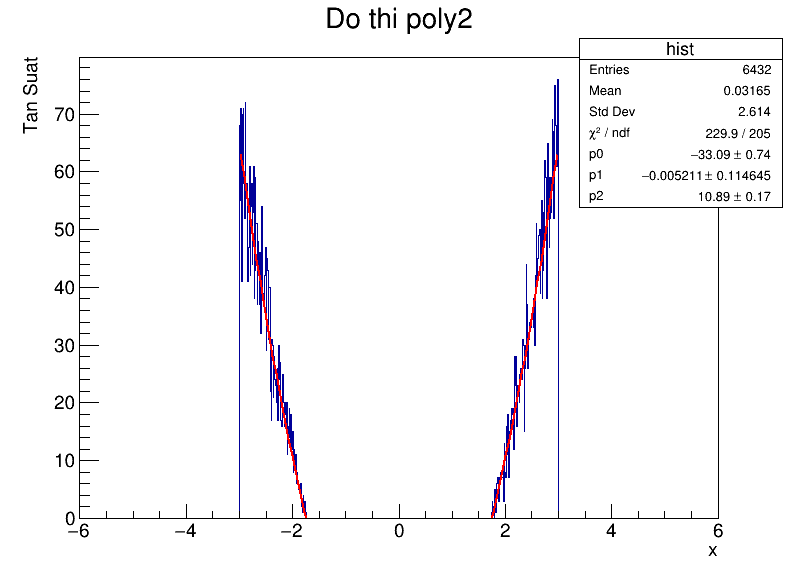
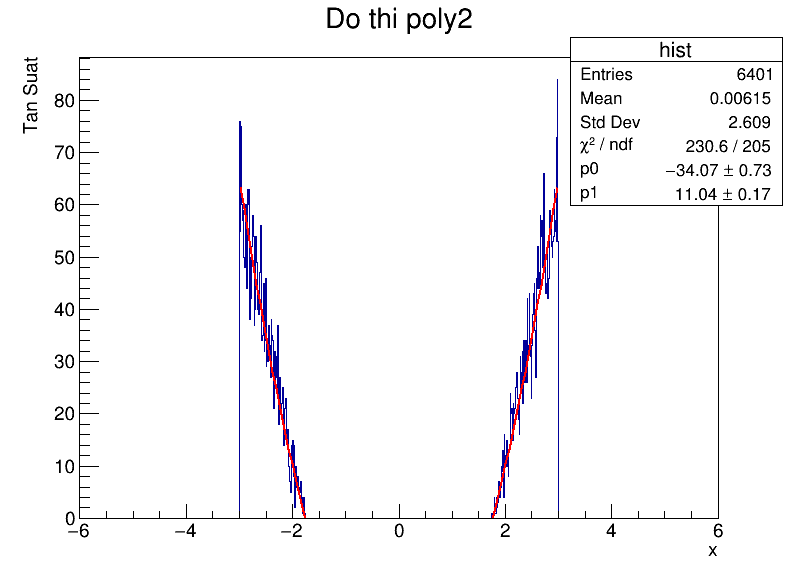
Add files via upload

diff --git a/poly2.cpp b/poly2.cpp
@@ -48,7 +48,8 @@ void poly2(){
 	hist->Draw();
 
 	// Fit poly2
-	TF1 *myfitpoly2 = new TF1("poly2 fit", "pol2", range_i, range_f);
+	TF1 *myfitpoly2 = new TF1("poly2 fit", "[0]+[1]*x*x", range_i, range_f);
+	myfitpoly2->SetParameters(hist->GetEntries());
 	myfitpoly2->SetLineColor(kRed);
 	hist->Fit(myfitpoly2, "R", "same");
 	
